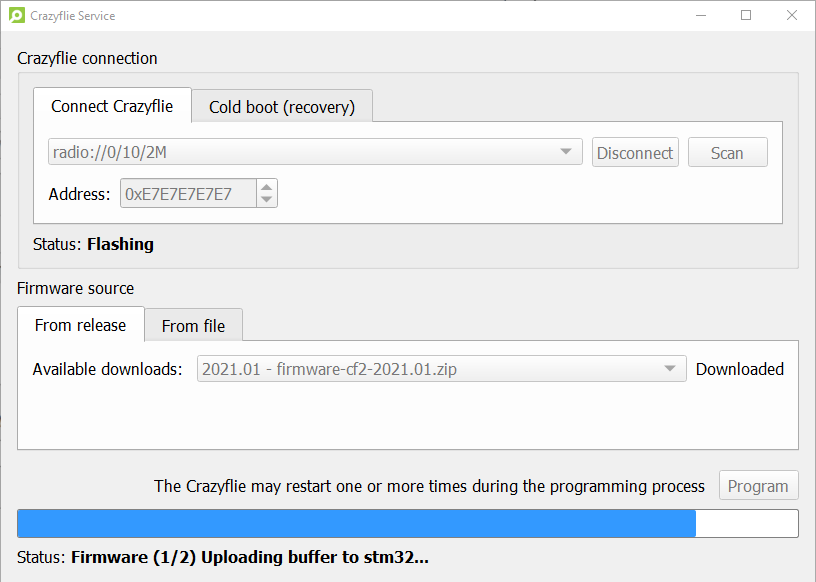
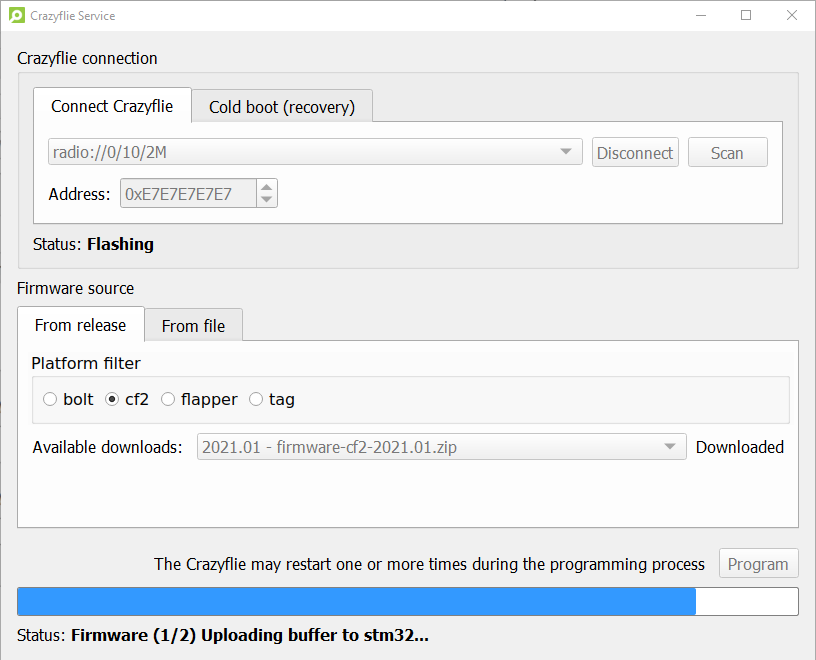
Updated docs

Changed region(s): [[0.0, 0.0, 0.9804, 0.7113], [0.0, 0.7732, 0.9804, 0.9897], [0.9498, 0.0, 0.9804, 0.0309]]

diff --git a/docs/userguides/userguide_client/index.md b/docs/userguides/userguide_client/index.md
@@ -100,8 +100,10 @@ To update the firmware in the Crazyflie 2.X do the following:
 the decks contain their own firmware which will also be updated during the firmware update. Also make sure there is a battery attached.
 -   Go to the menu *Connect-\>Bootloader*
 -   Connect to the crazyflie in this dialog, if it is not already connected in the flighttab.
--   Select the latest release from the drop down menu or select it if you have downloaded it from the [Github release page](https://github.com/bitcraze/crazyflie-release/releases). Make sure to select the right platform (cf2 is the Crazyflie 2.X)
--   Click \"Program\" and wait for both the STM and NRF to be flashed.
+-   Chose what to flash
+    - Use the "From release" tab to automatically use an [official release](https://github.com/bitcraze/crazyflie-release/releases). Make sure to select the right platform (cf2 is the Crazyflie 2.X)
+    - Use the "From file" tab if you have some other release file you want to flash.
+-   Click \"Program\" and wait for both the STM, NRF and decks to be flashed. Note: the Crazyflie may restart multiple times during this process.
 -   Your crazyflie will automatically restart a couple of times.
 -   Do not touch or restart your crazyflie untill all flashing is done and you see \"status: idle\" at the bottom.
 - To check the firmware version, under the *View* menu, open up *Tabs-\>Console* tab and look at the output when connecting to the
